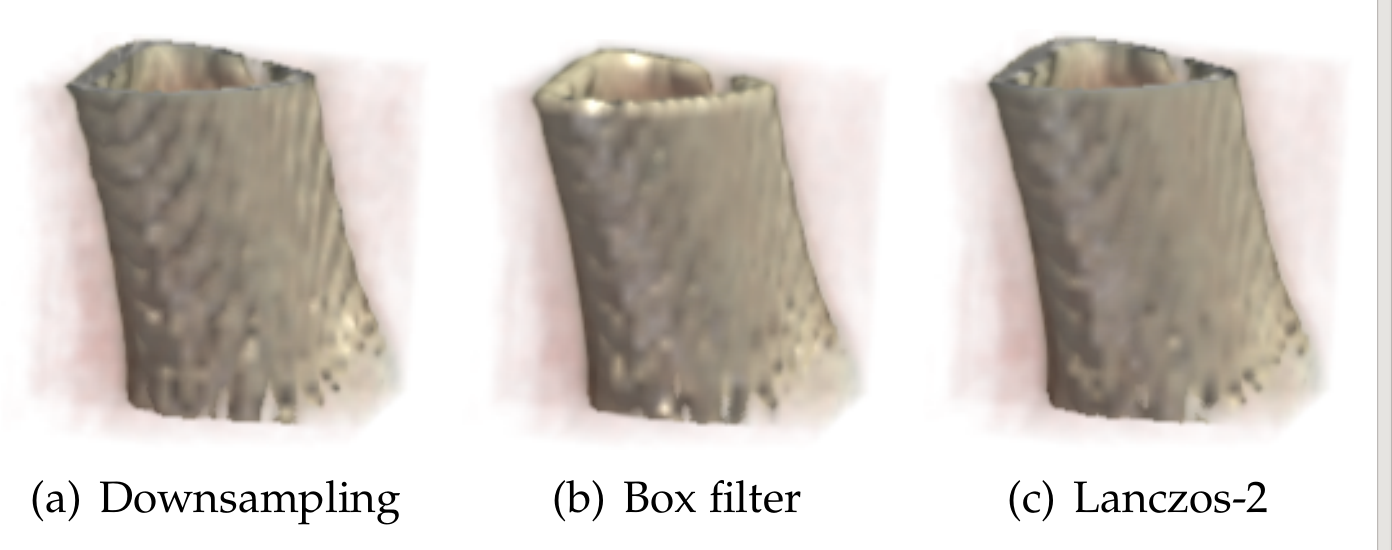
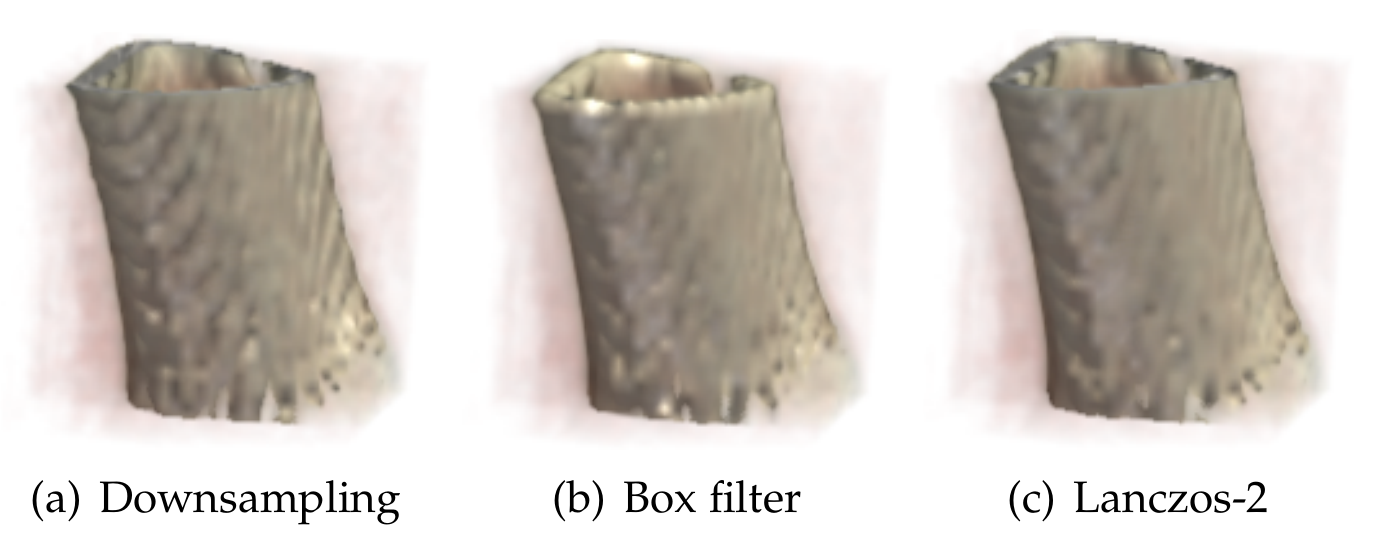
Decimation image

diff --git a/README.md b/README.md
@@ -18,7 +18,7 @@ git clone https://github.com/rballester/tthresh.git
 
 ### Compilation
 
-Use CMake to generate an executable ```tthresh```:
+Use [CMake](https://cmake.org/) to generate an executable ```tthresh```:
 
 ```
 mkdir build
@@ -63,7 +63,7 @@ The target accuracy can be specified either as relative error (```-e```), RMSE (
 
 - Use ```-a``` to reconstruct only the data's bounding box.
 - Use ```-k``` when compressing a file to skip its k leading bytes.
-- Use NumPy notation immediately after ```-o``` to decompress and/or decimate the data set. For example, ```-o :: :: 0``` will reconstruct only the first z-slice of a volume, ```-o ::2 ::2 ::2``` will decompress only every other voxel along all dimensions, and ```-o ll4 ll4 ll4``` will perform Lanczos downsampling by a factor of 4. Some result examples:
+- Use [NumPy-like notation](https://docs.scipy.org/doc/numpy-1.13.0/reference/arrays.indexing.html#basic-slicing-and-indexing) immediately after ```-o``` to decompress and/or decimate the data set. For example, ```-o :: :: 0``` will reconstruct only the first z-slice of a volume, ```-o ::2 ::2 ::2``` will decompress only every other voxel along all dimensions, and ```-o ll4 ll4 ll4``` will perform [Lanczos downsampling](https://en.wikipedia.org/wiki/Lanczos_resampling) by a factor of 4. Some result examples for x2 decimation:
 
 [<img src="https://github.com/rballester/tthresh/blob/master/images/decimation.png" width="512" title="Foot">](https://github.com/rballester/tthresh/raw/master/images/decimation.png)
 
